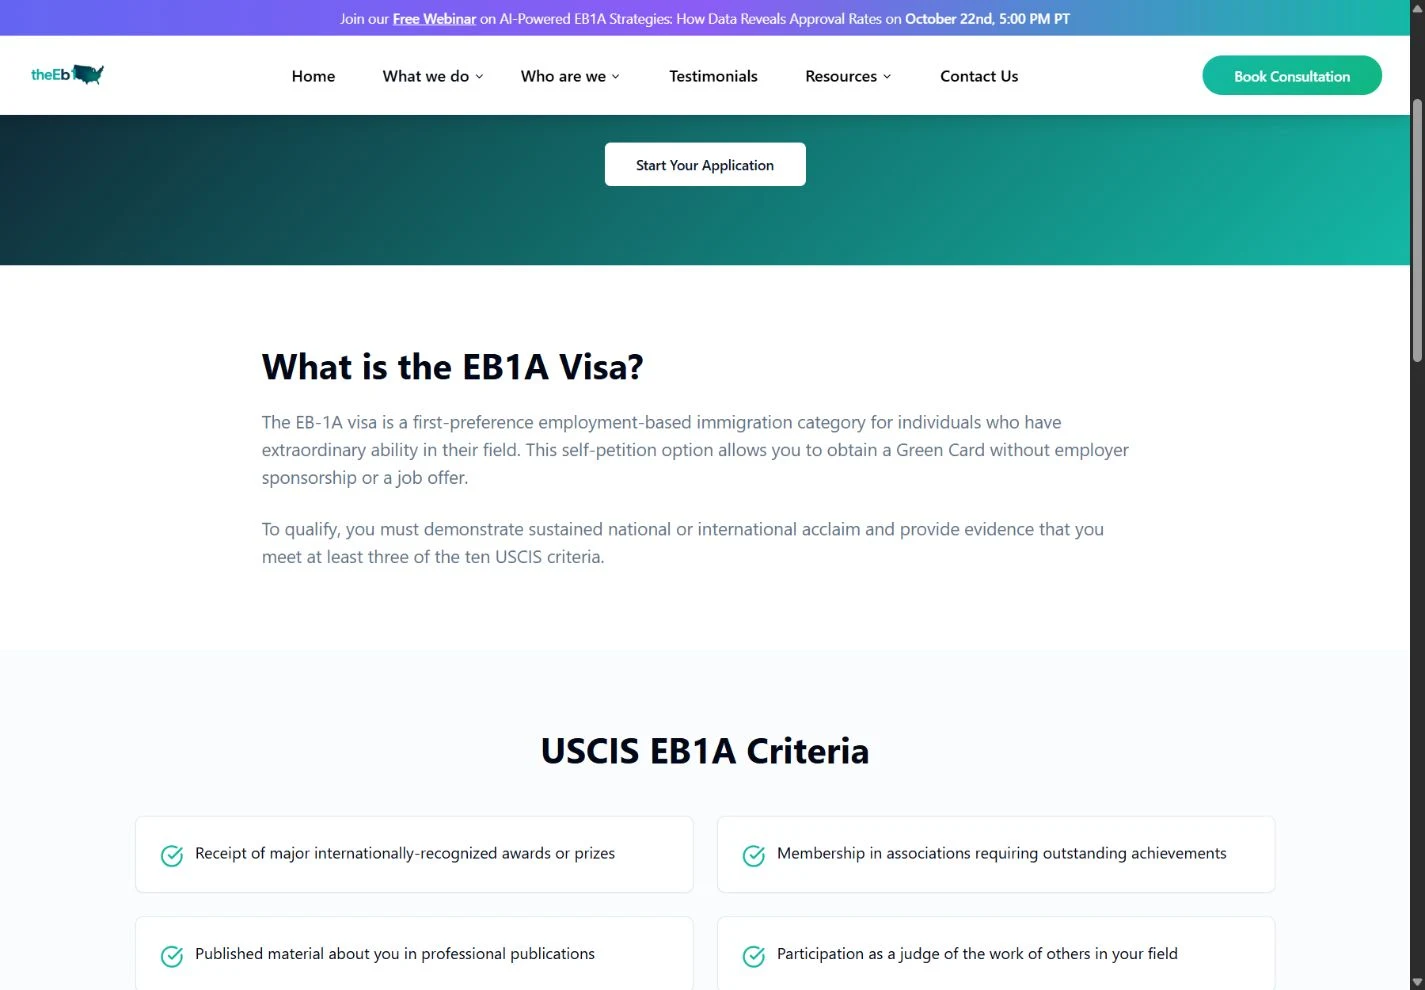
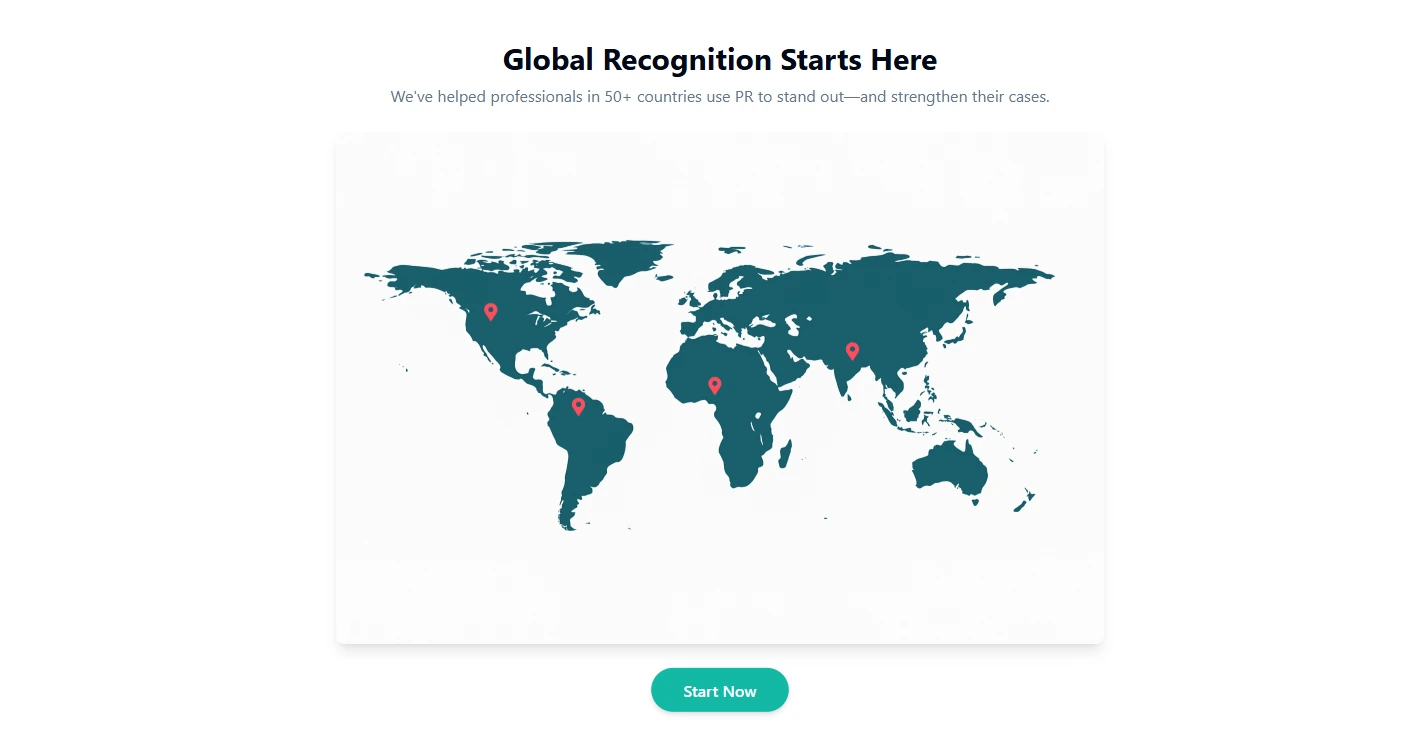
Improve theEb1 visual showcase and add complete homepage

diff --git a/README.md b/README.md
@@ -177,9 +177,20 @@ Vite builds the React frontend. PHP/PDO endpoints use MySQL for content and enqu
 
 Desktop and mobile openings keep the service introduction and profile-evaluation action visible at each size.
 
-![theEb1 EB-1A page showing the visa definition, USCIS criteria and consultation navigation.](docs/images/theeb1-detail.webp)
+![theEb1 homepage section with a teal world map, coral location markers and a Start Now action.](docs/images/theeb1-detail.webp)
 
-The EB-1A view separates the visa definition from a scannable criteria list, with consultation access in the shared navigation.
+The homepage pairs a branded world map with a concise introduction and a direct path to the contact page.
+
+<details>
+<summary>Complete homepage</summary>
+
+The complete page carries the teal identity from the service opening through company information, social proof, pricing and contact.
+
+[Open full-size homepage](docs/images/theeb1-homepage-full.webp)
+
+![Complete theEb1 homepage from the visa-service opening to the footer.](docs/images/theeb1-homepage-full.webp)
+
+</details>
 
 [Live website](https://theeb1.com/) · [Code](https://github.com/attaulhaq0/theeb1-website) · [Build/setup guide](https://github.com/attaulhaq0/theeb1-website/blob/main/database/README.md)
 
